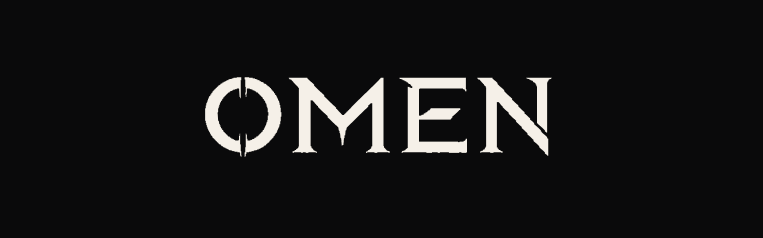
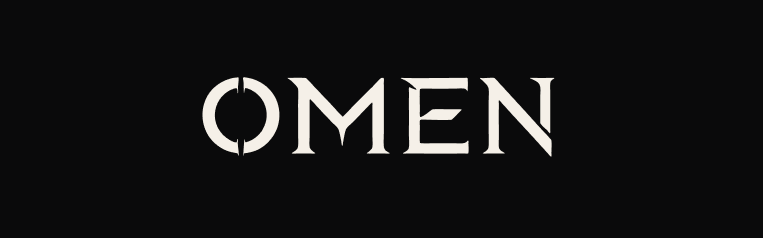
Refit the OMEN wordmark to real curves and add a light-surface lockup
The wordmark shipping as "Source-Faithful Vector Master" was not a vector
reconstruction. It was a bitmap edge trace: 822 straight line segments, zero
curves, with coordinates stepping on a fixed ~0.84 pixel grid. It was
permanently jagged at every zoom and would never improve.

Refit from the original raster:
- sub-pixel contours via marching squares at the 0.5 iso-level
- corner detection so the M apexes, E arms, notch points and stem flares
  stay sharp
- Schneider cubic fitting between corners at 0.35px tolerance

Result: 159 cubic segments, zero straight lines, 6.9k of path data instead
of 32k. Silhouette fidelity against the source raster is unchanged --
IoU 0.95298 fitted vs 0.95300 for the raw contours -- so the letterforms are
identical, they are simply smooth now.

The staircase had propagated into 12 places on the export board. All replaced.

Light-surface lockup:
The transparent lockup carries a Bone White wordmark, so on a light surface
only the symbol survived and OMEN vanished. brand-system.md describes that
file as shipping "for light-theme safety", which it was not. Adds
omen-horizontal-lockup-raven.png (brass symbol, Raven wordmark) and renders
both cuts at all five lockup sites, letting the resolved data-theme choose.

Every existing img tag is untouched, so loginBranding and deployHardening
keep passing unmodified, and all three deploy logo gates still hold:
- must contain omen-horizontal-lockup-transparent.png   PASS
[…]

diff --git a/frontend/src/index.css b/frontend/src/index.css
@@ -399,3 +399,18 @@
     }
   }
 }
+
+/* ── Brand lockup, theme-aware ────────────────────────────────────────────────
+   The transparent lockup carries a Bone White wordmark, so it disappears on a
+   light surface. Every lockup site renders both cuts and lets the resolved
+   data-theme pick one. Raven-ink cut is used on light, Bone cut on dark.
+   Both filenames stay in the bundle, which the deploy logo gates depend on. */
+.omen-lockup-on-dark,
+.omen-lockup-on-light { display: block; }
+
+:root[data-theme='light'] .omen-lockup-on-dark { display: none; }
+:root[data-theme='dark'] .omen-lockup-on-light { display: none; }
+
+/* No data-theme yet (first paint, before applyThemeMode runs): show the Bone
+   cut, matching the app's dark default, and keep the light cut out of flow. */
+:root:not([data-theme]) .omen-lockup-on-light { display: none; }

diff --git a/frontend/src/components/layout/Header.jsx b/frontend/src/components/layout/Header.jsx
@@ -159,7 +159,12 @@ function NavDrawer({ open, onClose, isAuthenticated }) {
             <img
               src="/omen-horizontal-lockup-transparent.png"
               alt="Omen"
-              className="h-7 w-auto"
+              className="omen-lockup-on-dark h-7 w-auto"
+            />
+            <img
+              src="/omen-horizontal-lockup-raven.png"
+              alt="Omen"
+              className="omen-lockup-on-light h-7 w-auto"
             />
           </div>
 
@@ -298,7 +303,12 @@ export default function Header() {
             <img
               src="/omen-horizontal-lockup-transparent.png"
               alt="Omen"
-              className="h-8 w-auto"
+              className="omen-lockup-on-dark h-8 w-auto"
+            />
+            <img
+              src="/omen-horizontal-lockup-raven.png"
+              alt="Omen"
+              className="omen-lockup-on-light h-8 w-auto"
             />
           </Link>
 

diff --git a/frontend/src/pages/OmenLanding.jsx b/frontend/src/pages/OmenLanding.jsx
@@ -7,7 +7,8 @@ function Header() {
     <header className="sticky top-0 z-50 border-b border-white/8 bg-[#050505]/90 pt-[env(safe-area-inset-top)] backdrop-blur-xl">
       <div className="mx-auto flex max-w-4xl items-center justify-between px-5 py-4">
         {/* Logo */}
-        <img src="/omen-horizontal-lockup-transparent.png" alt="Omen" className="h-9 w-auto" />
+        <img src="/omen-horizontal-lockup-transparent.png" alt="Omen" className="omen-lockup-on-dark h-9 w-auto" />
+        <img src="/omen-horizontal-lockup-raven.png" alt="Omen" className="omen-lockup-on-light h-9 w-auto" />
 
         {/* Nav */}
         <div className="flex items-center gap-5">

diff --git a/frontend/src/pages/Login.jsx b/frontend/src/pages/Login.jsx
@@ -227,7 +227,12 @@ export default function Login() {
           <img
             src="/omen-horizontal-lockup-transparent.png"
             alt="Omen"
-            className="mx-auto h-12 w-auto"
+            className="omen-lockup-on-dark mx-auto h-12 w-auto"
+          />
+          <img
+            src="/omen-horizontal-lockup-raven.png"
+            alt="Omen"
+            className="omen-lockup-on-light mx-auto h-12 w-auto"
           />
           <p className="mt-1 text-[11px] uppercase tracking-[0.3em] text-[var(--color-text-tertiary)]">
             Fantasy Intelligence

diff --git a/frontend/src/pages/Landing.jsx b/frontend/src/pages/Landing.jsx
@@ -21,7 +21,10 @@ function Arrow() {
 
 function OmenLogo() {
   return (
-    <img src="/omen-horizontal-lockup-transparent.png" alt="Omen" className="h-12 w-auto" />
+    <>
+      <img src="/omen-horizontal-lockup-transparent.png" alt="Omen" className="omen-lockup-on-dark h-12 w-auto" />
+      <img src="/omen-horizontal-lockup-raven.png" alt="Omen" className="omen-lockup-on-light h-12 w-auto" />
+    </>
   );
 }
 
